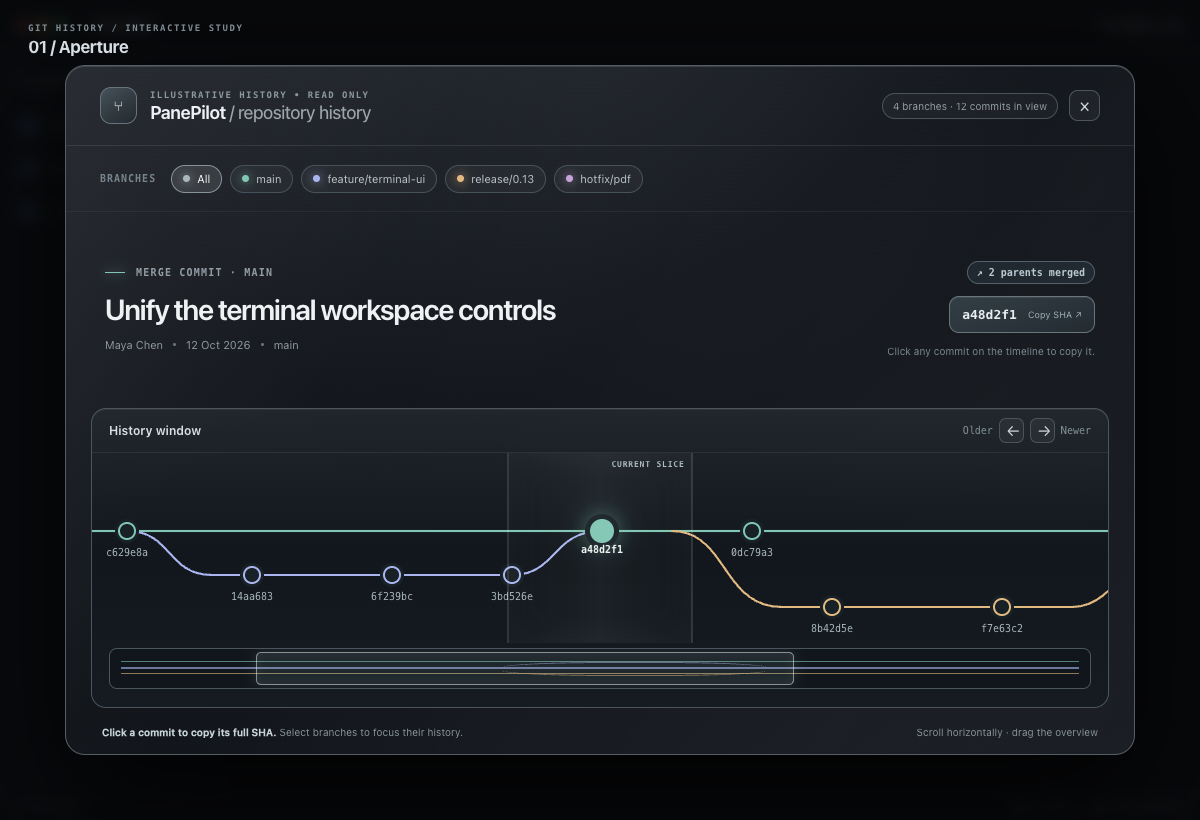
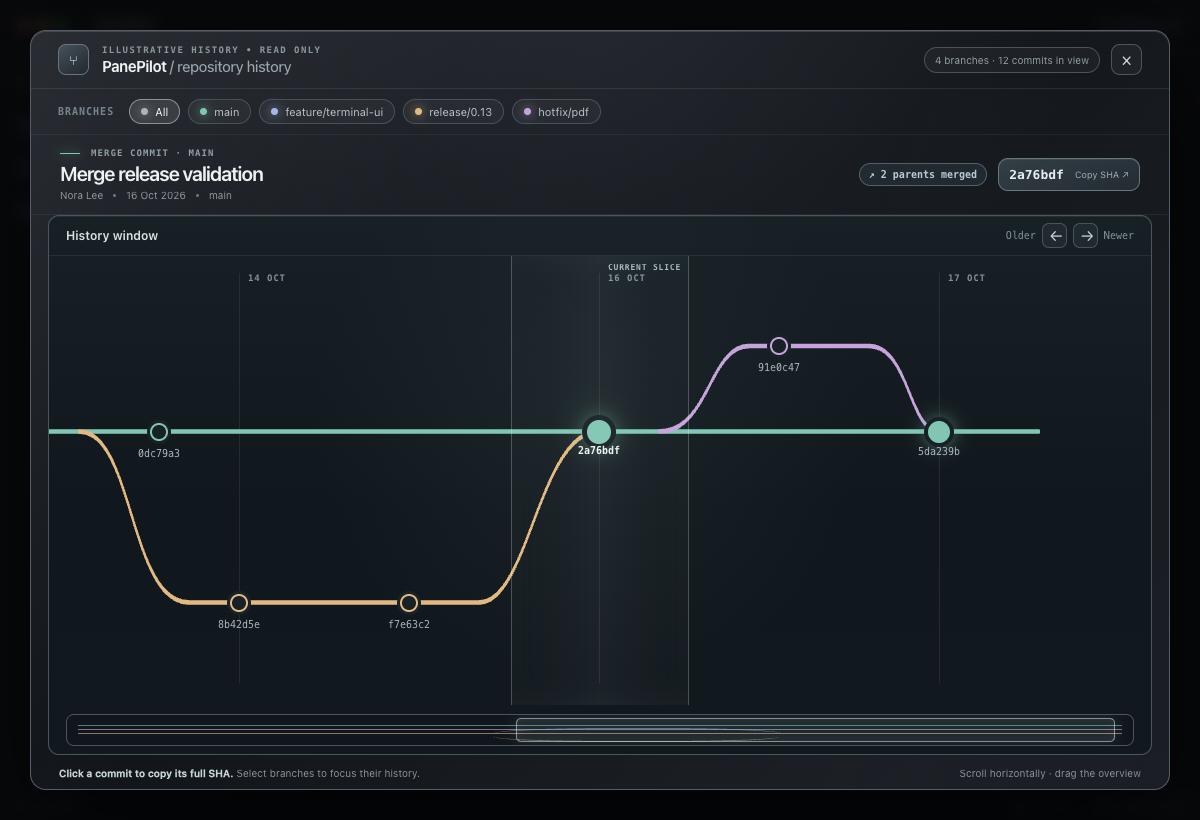
design: give Aperture history graph the canvas

diff --git a/mockups/git-time-slice/mockup.html b/mockups/git-time-slice/mockup.html
@@ -86,6 +86,7 @@
     .timeline-lines .hotfix-line { stroke:var(--hotfix); }
     .timeline-lines .guide { stroke:#ffffff13; stroke-width:1; stroke-dasharray:3 7; }
     .timeline-lane-name { position:absolute; z-index:1; left:24px; color:#9ca8ad; font:600 10px "SFMono-Regular",Menlo,monospace; }
+    .time-marker { display:none; }
     .timeline-lane-name.main { top:28px;color:var(--main) }.timeline-lane-name.feature{top:96px;color:var(--feature)}.timeline-lane-name.release{top:147px;color:var(--release)}.timeline-lane-name.hotfix{top:4px;color:var(--hotfix)}
     .commit-node { position:absolute; z-index:2; width:18px;height:18px; padding:0; transform:translate(-50%,-50%); border:2px solid var(--node-color);border-radius:50%;background:#182126;color:#dce4e8;box-shadow:0 0 0 3px #182126; }
     .commit-node[data-branch="main"]{--node-color:var(--main)}.commit-node[data-branch="feature"]{--node-color:var(--feature)}.commit-node[data-branch="release"]{--node-color:var(--release)}.commit-node[data-branch="hotfix"]{--node-color:var(--hotfix)}
@@ -106,8 +107,33 @@
     .toast { position:absolute; z-index:7; left:50%; bottom:39px; transform:translateX(-50%); padding:10px 14px; color:#ecf5f3; border:1px solid #78ad9e; border-radius:9px; background:#20372f; box-shadow:0 8px 25px #0008; font-size:11px; opacity:0; pointer-events:none; }
     .reopen { position:absolute; z-index:2; left:50%; top:50%; transform:translate(-50%,-50%); display:none; padding:12px 18px; color:#e1ebed;border:1px solid #73818b;border-radius:11px;background:#1e2a31; }
 
-    body[data-variant="1"] .story h2 { max-width:640px; }
-    body[data-variant="1"] .slice-glass { width:185px; }
+    body[data-variant="1"] .concept { display:none; }
+    body[data-variant="1"] .history-modal { top:30px; left:30px; width:1140px; height:760px; border-radius:16px; }
+    body[data-variant="1"] .modal-header { height:58px; padding:0 27px; }
+    body[data-variant="1"] .identity-mark { width:31px; height:31px; border-radius:8px; font-size:16px; }
+    body[data-variant="1"] .identity h1 { font-size:15px; }
+    body[data-variant="1"] .branch-strip { height:46px; padding:0 27px; }
+    body[data-variant="1"] .branch-chip { min-height:25px; }
+    body[data-variant="1"] .story { height:80px; grid-template-columns:minmax(0,1fr) auto; gap:12px; padding:7px 29px; border-bottom:1px solid #ffffff0e; }
+    body[data-variant="1"] .story-prefix { font-size:9px; }
+    body[data-variant="1"] .story h2 { max-width:none; margin:5px 0 4px; font-size:20px; line-height:1.1; }
+    body[data-variant="1"] .story-meta { font-size:10px; }
+    body[data-variant="1"] .story-side { display:flex; align-items:center; gap:11px; }
+    body[data-variant="1"] .story-note { display:none; }
+    body[data-variant="1"] .copy-hash { padding:8px 10px; }
+    body[data-variant="1"] .timeline-shell { height:540px; margin:0 17px; border-radius:11px; background:radial-gradient(circle at 49% 37%,#303f4444,transparent 42%),linear-gradient(180deg,#172025,#11181d 54%,#12191e); }
+    body[data-variant="1"] .timeline-head { height:40px; }
+    body[data-variant="1"] .timeline-window,body[data-variant="1"] .timeline-inner,body[data-variant="1"] .timeline-lines { height:450px; }
+    body[data-variant="1"] .timeline-inner { width:1950px; }
+    body[data-variant="1"] .timeline-lines { z-index:1; }
+    body[data-variant="1"] .time-marker { position:absolute; z-index:0; top:17px; display:block; height:410px; padding-left:8px; border-left:1px solid #ffffff13; color:#819096; font:700 9px "SFMono-Regular",Menlo,monospace; letter-spacing:.1em; }
+    body[data-variant="1"] .timeline-lane-name.main { top:154px; }
+    body[data-variant="1"] .timeline-lane-name.feature { top:253px; }
+    body[data-variant="1"] .timeline-lane-name.release { top:325px; }
+    body[data-variant="1"] .timeline-lane-name.hotfix { top:68px; }
+    body[data-variant="1"] .slice-glass { top:40px; bottom:49px; width:178px; }
+    body[data-variant="1"] .overview { height:32px; margin:8px 17px 0; }
+    body[data-variant="1"] .modal-footer { height:36px; padding:0 28px; }
 
     body[data-variant="2"] .history-modal { background:radial-gradient(circle at 20% 13%,#41474b75,transparent 47%),linear-gradient(140deg,#202429,#111519 67%,#242a2e); }
     body[data-variant="2"] .branch-strip { height:71px; background:#ffffff04; }
@@ -186,6 +212,7 @@
             <path class="release-line" d="M850 78 C905 78 900 154 960 154 H1250 C1300 154 1310 78 1370 78"/>
             <path class="hotfix-line" d="M1430 78 C1480 78 1480 40 1520 40 H1640 C1680 40 1680 78 1710 78"/>
           </svg>
+          <span class="time-marker" style="left:1010px">14 OCT</span><span class="time-marker" style="left:1370px">16 OCT</span><span class="time-marker" style="left:1710px">17 OCT</span>
           <span class="timeline-lane-name main">main</span><span class="timeline-lane-name feature">feature</span><span class="timeline-lane-name release">release</span><span class="timeline-lane-name hotfix">hotfix</span>
           <button class="commit-node" style="left:160px;top:78px" data-branch="main" data-hash="e71b649" data-subject="Establish the project workspace" data-author="Elliot Park" data-date="03 Sep 2026" aria-label="Commit e71b649: Establish the project workspace"><span>e71b649</span></button>
           <button class="commit-node" style="left:305px;top:78px" data-branch="main" data-hash="c629e8a" data-subject="Introduce reusable project tools" data-author="Maya Chen" data-date="18 Sep 2026" aria-label="Commit c629e8a: Introduce reusable project tools"><span>c629e8a</span></button>

diff --git a/mockups/git-time-slice/preview.js b/mockups/git-time-slice/preview.js
@@ -20,6 +20,16 @@ let motionAnimate = null
 let toastTimer = 0
 let draggingOverview = false
 
+if (document.body.dataset.variant === '1') {
+  document.querySelector('.timeline-lines').setAttribute('viewBox', '0 0 1840 450')
+  for (const path of document.querySelectorAll('.timeline-lines path')) {
+    path.setAttribute('transform', 'scale(1 2.25)')
+  }
+  for (const node of nodes) {
+    node.style.top = `${parseFloat(node.style.top) * 2.25}px`
+  }
+}
+
 // The preview uses the same Motion library proposed for the eventual React modal.
 // It remains usable when the CDN is unavailable; only the enhanced motion falls back.
 import('https://cdn.jsdelivr.net/npm/motion@14.3.0/+esm')
@@ -176,8 +186,13 @@ document.addEventListener('keydown', (event) => {
   if (event.key === 'Escape' && modal.style.display !== 'none') closeModal()
 })
 
+if (document.body.dataset.variant === '1') {
+  const apertureCommit = nodes.find((node) => node.dataset.hash === '2a76bdf')
+  if (apertureCommit) selectCommit(apertureCommit, false)
+}
+
 requestAnimationFrame(() => {
-  timeline.scrollLeft = 270
+  timeline.scrollLeft = document.body.dataset.variant === '1' ? 820 : 270
   updateOverview()
   window.__mockupReady = true
 })
